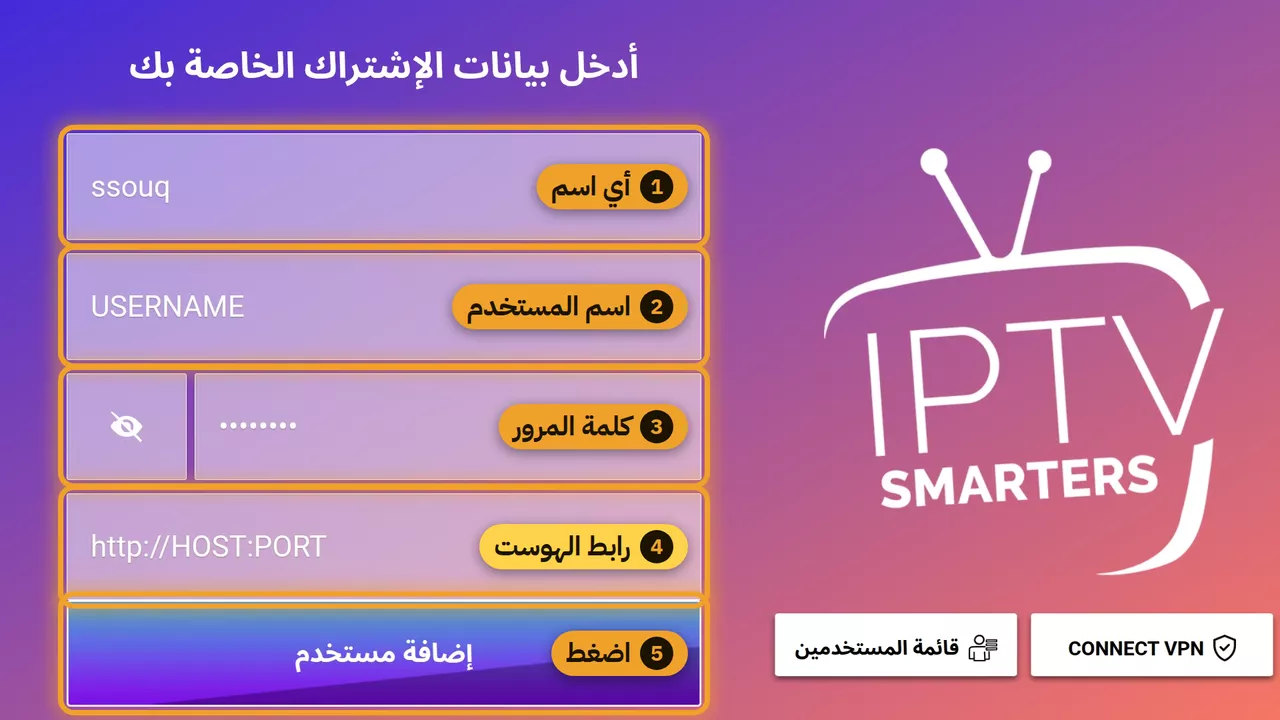
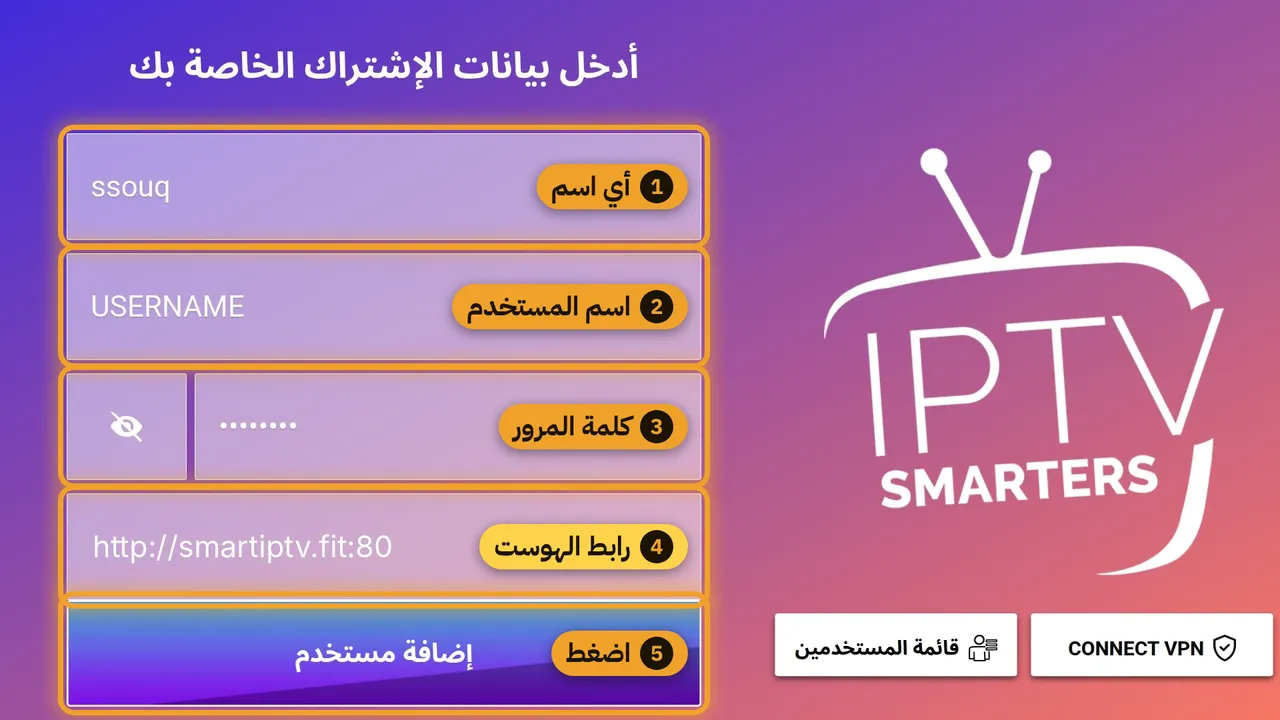
صور الشرح: الهوست smartiptv.fit، وكاسبر خيار ثالث في مسار الشراء (#384)
* صورة نموذج Duplecast: الهوست http://smartiptv.fit والبورت 80

Claude-Session: https://claude.ai/code/session_017XWm9WzbYUXCcRBbG6P4f8

* صور الشرح: الهوست http://smartiptv.fit:80 في Smarters Pro وPC وIPTVnator وRPlay

Claude-Session: https://claude.ai/code/session_017XWm9WzbYUXCcRBbG6P4f8

* مسار «أريد اشتراكًا جديدًا»: كاسبر خيار ثالث بجانب فالكون وسمارت

Claude-Session: https://claude.ai/code/session_017XWm9WzbYUXCcRBbG6P4f8

---------

Changed region(s): [[0.0625, 0.7333, 0.3125, 0.7944]]

diff --git a/index.html b/index.html
@@ -168,6 +168,7 @@ a.entry{text-decoration:none}
   text-align:right;cursor:pointer;overflow:hidden;box-shadow:var(--shadow)}
 .brandcard.falcon{background:linear-gradient(210deg,#123A5E 0%,#0A1E33 55%,#3A1020 100%)}
 .brandcard.smart{background:linear-gradient(210deg,#1E7FC4 0%,#0F4E80 55%,#06263F 100%)}
+.brandcard.casper{background:linear-gradient(210deg,#2A5BD7 0%,#14307F 55%,#070F2E 100%)}
 .brandcard{transition:transform .15s ease}
 .brandcard:hover,.brandcard:focus-visible{transform:translateY(-2px)}
 .brandcard.badged{padding-top:46px}
@@ -951,7 +952,10 @@ const BRAND_COPY = {
     chips: [["ball", "بث مباشر"], ["film", "أفلام ومسلسلات"], ["refresh", "تحديث يومي"]] },
   smart: { badge: "ممتاز للمسلسلات والأفلام", art: "/static/img/brands/smart.webp",
     text: "ممتاز للأفلام والمسلسلات مع تحديث يومي، ومناسب أيضًا للبث المباشر.",
-    chips: [["film", "أفلام ومسلسلات"], ["ball", "بث مباشر"], ["refresh", "تحديث يومي"]] }
+    chips: [["film", "أفلام ومسلسلات"], ["ball", "بث مباشر"], ["refresh", "تحديث يومي"]] },
+  casper: { badge: "الأوفر للأفلام والمسلسلات", art: "/static/img/brands/casper.webp",
+    text: "مكتبة واسعة من الأفلام والمسلسلات بسعر اقتصادي، ولها باقات خاصة لشاشات سامسونج و LG.",
+    chips: [["film", "أفلام ومسلسلات"], ["refresh", "تحديث يومي"]] }
 };
 const PROG_BUY = ["المحتوى", "الجهاز", "النوع", "الباقة"];
 const PROG_ACT = ["الاشتراك", "جهازك", "التطبيق", "جاهز"];
@@ -1371,20 +1375,20 @@ function renderBuyDevice(){
 function renderBuyBrand(){
   setProg(PROG_BUY, 2);
   const best = recommended(state.taste, state.bdev);
-  const order = best === "smart" ? ["smart", "falcon"] : ["falcon", "smart"];
+  const order = [best, ...["falcon", "smart", "casper"].filter(k => k !== best)];
   const cards = order.map(k => {
     const b = CATALOG[k], c = BRAND_COPY[k];
     return `<button class="brandcard ${k}${k === best ? " badged" : ""}" type="button" data-brand="${k}">
       ${k === best ? `<span class="pick-badge">${c.badge}</span>` : ""}
       <span class="head"><img src="${c.art}" alt="" width="68" height="68" loading="lazy">
         <span class="who"><b>${b.name}</b><span class="full">${b.full}</span>
-          <span class="rate">${stars(b.stars)} <em>تقييم سمارت سوق ${b.stars} من 5</em></span></span></span>
+          ${b.stars ? `<span class="rate">${stars(b.stars)} <em>تقييم سمارت سوق ${b.stars} من 5</em></span>` : ""}</span></span>
       <p>${c.text}</p>
       <span class="chips">${c.chips.map(([i, t]) => `<span>${ICONS[i]}${t}</span>`).join("")}</span>
     </button>`;
   }).join("");
   const tvNote = {
-    webos: `<div class="note warn">شاشات سامسونج و LG تعمل بنظام webOS، ولها في المتجر باقات مخصّصة تشتغل على الشاشة مباشرة عبر 0Player بلا رسيفر — وهي باقات "سمارت".</div>`,
+    webos: `<div class="note warn">شاشات سامسونج و LG تعمل بنظام webOS، ولها في المتجر باقات مخصّصة تشتغل على الشاشة مباشرة عبر 0Player بلا رسيفر — وهي باقات "سمارت" (ولكاسبر باقات مخصّصة مثلها).</div>`,
     vidaa: `<div class="note warn">شاشات هايسنس تعمل بنظام VIDAA، وتناسبها باقات "سمارت" المخصّصة للشاشات الذكية — باقات سامسونج و LG نفسها — وتشتغل على الشاشة مباشرة عبر تطبيق Duplecast بلا رسيفر.</div>`
   }[state.bdev] || "";
   $("#view").innerHTML = `<div class="card">
